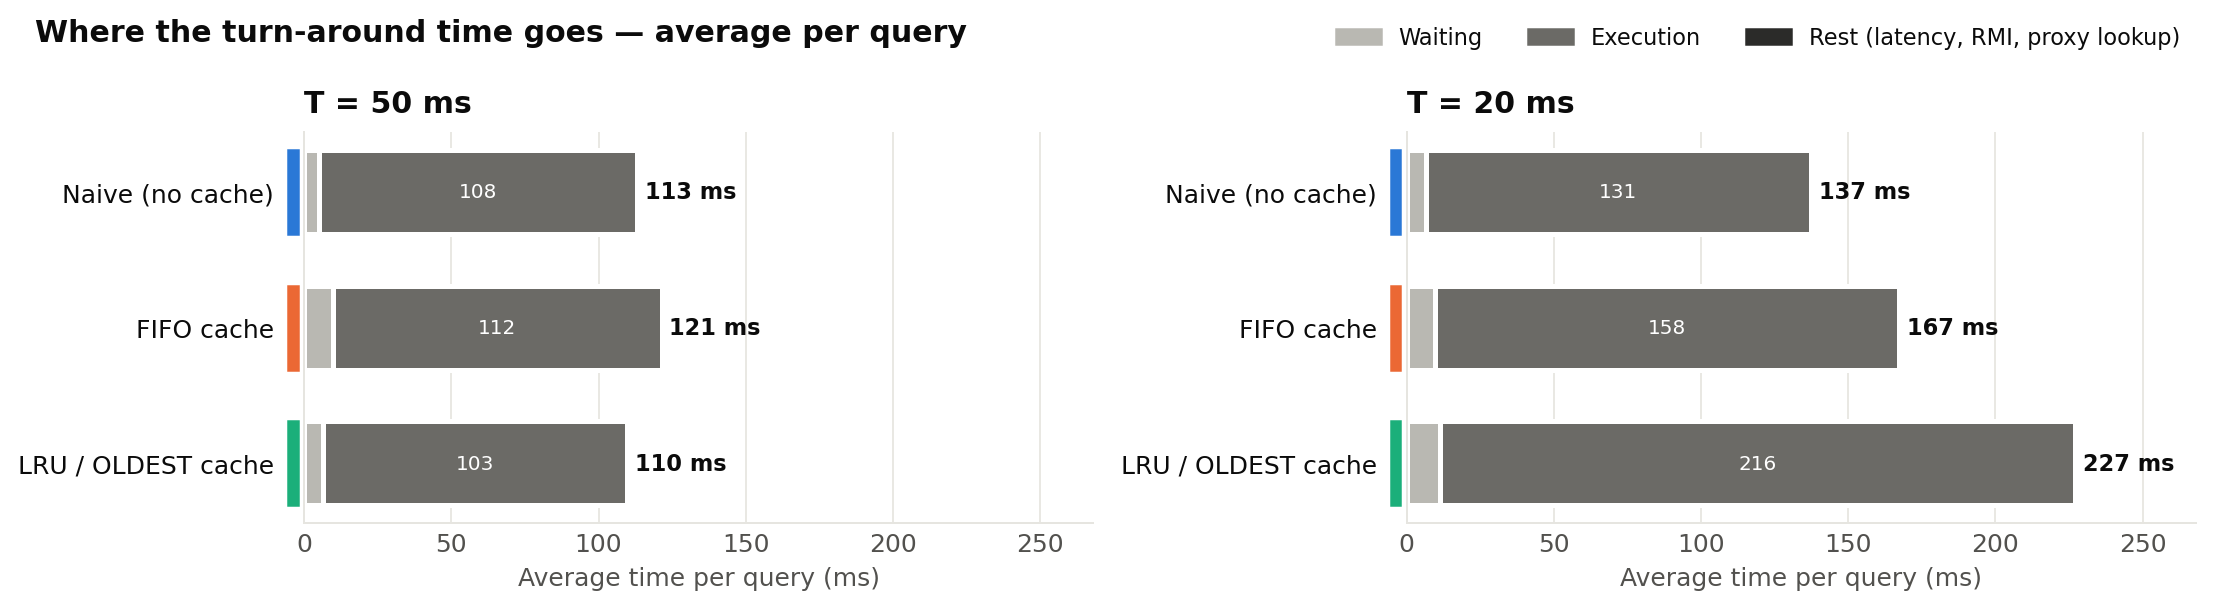
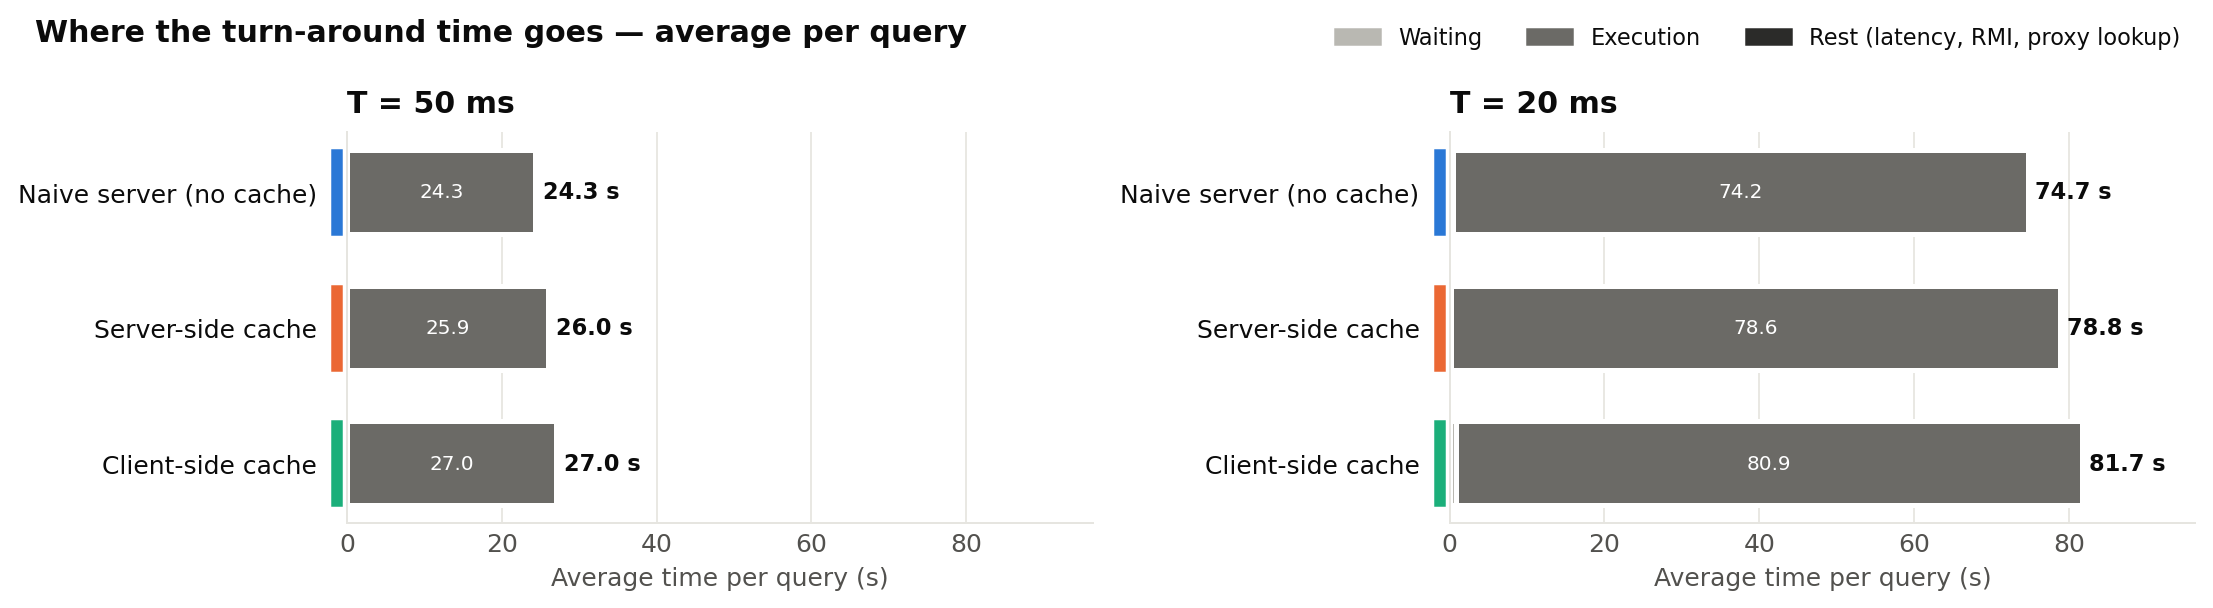
Fix: graph python script

diff --git a/scripts/plot_results.py b/scripts/plot_results.py
@@ -2,11 +2,17 @@
 Draws the graphs required by exercise_1.pdf, section "4 Result", plus a few
 comparison figures for the report.
 
-Required by the handout (one set per run, i.e. per cache mode and T):
+Input: one folder per run in output/, named <variant><T>, holding the client's
+output file <variant>.txt and the servers' queue logs server<A-E>-queue.log:
+  output/naive_server50/naive_server.txt   output/naive_server20/naive_server.txt
+  output/server_cache50/server_cache.txt   output/server_cache20/server_cache.txt
+  output/client_cache50/client_cache.txt   output/client_cache20/client_cache.txt
+
+Required by the handout (one set per run, i.e. per variant and T):
   <RUN>_turnaround   x: query number,   y: turn-around time
   <RUN>_queues       x: Unix timestamp, y: queue size, one panel per server
 
-Comparison figures across NAIVE / FIFO / LRU and T = 50 / T = 20:
+Comparison figures across naive server / server cache / client cache and T = 50 / T = 20:
   compare_turnaround     rolling mean of turn-around time per query
   compare_distribution   cumulative distribution (ECDF) of turn-around time
   compare_averages       average turn-around split into waiting / execution / rest
@@ -15,10 +21,12 @@ Comparison figures across NAIVE / FIFO / LRU and T = 50 / T = 20:
 
 It also writes summary.csv (the numbers behind the figures, for tables in the report).
 
-Usage:
-  python scripts/plot_results.py [output_dir] [--format png,pdf] [--window 50]
+Usage (from the repo folder):
+  python scripts/plot_results.py [output_dir] [--graph-dir graph] [--format png,pdf] [--window 50]
 
-Graphs are written to <output_dir>/graphs/. Only matplotlib, numpy and pandas are needed.
+Defaults: reads <repo>/output, writes to <repo>/graph (existing files with the same
+name are overwritten). Times switch from ms to seconds automatically when the
+slowest query takes longer than 10 s. Only matplotlib, numpy and pandas are needed.
 """
 import argparse
 import re
@@ -38,7 +46,7 @@ from matplotlib.ticker import FuncFormatter, MaxNLocator
 # --------------------------------------------------------------------------- #
 # Constants
 # --------------------------------------------------------------------------- #
-MODES = ["NAIVE", "FIFO", "LRU"]
+MODES = ["naive_server", "server_cache", "client_cache"]   # folder / file names
 DELAYS = [50, 20]
 SERVERS = ["A", "B", "C", "D", "E"]
 METHODS = ["getPopulationofCountry", "getNumberofCities",
@@ -53,8 +61,24 @@ LATENCY_MS = 80        # simulated same-zone latency (handout, 2.3)
 OVERLOAD_LIMIT = 18    # proxy redirects when the waiting list reaches this (handout, 1)
 
 # One fixed colour per cache mode, the same in every figure.
-MODE_COLORS = {"NAIVE": "#2a78d6", "FIFO": "#eb6834", "LRU": "#1baf7a"}
-MODE_LABELS = {"NAIVE": "Naive (no cache)", "FIFO": "FIFO cache", "LRU": "LRU / OLDEST cache"}
+MODE_COLORS = {"naive_server": "#2a78d6", "server_cache": "#eb6834", "client_cache": "#1baf7a"}
+MODE_LABELS = {"naive_server": "Naive server (no cache)", "server_cache": "Server-side cache",
+               "client_cache": "Client-side cache"}
+MODE_SHORT = {"naive_server": "Naive", "server_cache": "Server\ncache", "client_cache": "Client\ncache"}
+
+# Time unit for every figure. main() switches to seconds when the runs are slow;
+# the parsed data is divided by UNIT_DIV once, right after parsing.
+UNIT, UNIT_DIV = "ms", 1
+
+
+def fmt_t(v) -> str:
+    """A time value in the current unit, e.g. '113 ms' or '12.4 s'."""
+    return f"{v:,.0f} ms" if UNIT == "ms" else f"{v:,.1f} s"
+
+
+def num_t(v) -> str:
+    """Same as fmt_t but without the unit (for labels on bars)."""
+    return f"{v:,.0f}" if UNIT == "ms" else f"{v:,.1f}"
 
 # Text and chrome
 INK, MUTED, FAINT, GRID, SURFACE = "#0b0b0b", "#52514e", "#8a8984", "#e6e5e0", "#ffffff"
@@ -153,15 +177,21 @@ def subtitle(ax, text):
     ax.text(0, 1.02, text, transform=ax.transAxes, color=MUTED, fontsize=9, va="bottom")
 
 
-def latency_line(ax, orientation="h"):
-    """Hairline at the 80 ms simulated latency: no query can be faster than this."""
+def latency_line(ax, orientation="h", top=None):
+    """Hairline at the 80 ms simulated latency: no query can be faster than this.
+
+    Skipped on a linear axis where 80 ms would sit right on top of zero (top = axis maximum).
+    """
+    lat = LATENCY_MS / UNIT_DIV
+    if top is not None and lat < 0.03 * top:
+        return
     if orientation == "h":
-        ax.axhline(LATENCY_MS, color=FAINT, linewidth=0.9, zorder=1)
-        ax.text(1.0, LATENCY_MS, f" {LATENCY_MS} ms latency", transform=ax.get_yaxis_transform(),
+        ax.axhline(lat, color=FAINT, linewidth=0.9, zorder=1)
+        ax.text(1.0, lat, f" {LATENCY_MS} ms latency", transform=ax.get_yaxis_transform(),
                 color=MUTED, fontsize=8, va="center", ha="left")
     else:
-        ax.axvline(LATENCY_MS, color=FAINT, linewidth=0.9, zorder=1)
-        ax.text(LATENCY_MS, 1.0, f"{LATENCY_MS} ms latency ", transform=ax.get_xaxis_transform(),
+        ax.axvline(lat, color=FAINT, linewidth=0.9, zorder=1)
+        ax.text(lat, 1.0, f"{LATENCY_MS} ms latency ", transform=ax.get_xaxis_transform(),
                 color=MUTED, fontsize=8, va="top", ha="right", rotation=90)
 
 
@@ -207,16 +237,17 @@ def plot_turnaround(df: pd.DataFrame, mode: str, delay: int, window: int, out: P
 
     ax.plot(df["query"], roll.median(), color=INK, linewidth=1.6,
             label=f"Rolling median ({window} queries)", zorder=3)
-    latency_line(ax)
 
     t = df["turnaround"]
+    top = max(t.max() * 1.05, 2 * LATENCY_MS / UNIT_DIV)
+    latency_line(ax, top=top)
     ax.set_title(f"{MODE_LABELS[mode]} — turn-around time per query, T = {delay} ms")
-    subtitle(ax, f"{len(df):,} queries  ·  mean {t.mean():.0f} ms  ·  median {t.median():.0f} ms"
-                 f"  ·  95th pct {t.quantile(0.95):.0f} ms  ·  max {t.max():,} ms")
+    subtitle(ax, f"{len(df):,} queries  ·  mean {fmt_t(t.mean())}  ·  median {fmt_t(t.median())}"
+                 f"  ·  95th pct {fmt_t(t.quantile(0.95))}  ·  max {fmt_t(t.max())}")
     ax.set_xlabel("Query number (order in the input file)")
-    ax.set_ylabel("Turn-around time (ms)")
+    ax.set_ylabel(f"Turn-around time ({UNIT})")
     ax.set_xlim(0, len(df) + 1)
-    ax.set_ylim(0, max(t.max() * 1.05, LATENCY_MS * 2))
+    ax.set_ylim(0, top)
     ax.legend(loc="upper center", bbox_to_anchor=(0.5, -0.13), ncols=3)
     save(fig, out, formats)
 
@@ -247,7 +278,7 @@ def plot_queues(logs: dict, mode: str, delay: int, out: Path, formats):
             ax.axhline(OVERLOAD_LIMIT, color=FAINT, linewidth=0.9)
             ax.text(1.0, OVERLOAD_LIMIT, f" overload {OVERLOAD_LIMIT}", transform=ax.get_yaxis_transform(),
                     color=MUTED, fontsize=8, va="center", ha="left")
-        ax.set_ylim(0, (OVERLOAD_LIMIT if show_limit else ymax) + 1.5)
+        ax.set_ylim(0, max(ymax, OVERLOAD_LIMIT if show_limit else 0) * 1.12 + 1)
         ax.yaxis.set_major_locator(MaxNLocator(integer=True, nbins=3))
         ax.grid(axis="x", visible=False)
 
@@ -281,13 +312,14 @@ def plot_turnaround_comparison(clients: dict, window: int, out: Path, formats):
             df = clients[(m, d)]
             ax.plot(df["query"], df["turnaround"].rolling(window, center=True, min_periods=1).mean(),
                     color=MODE_COLORS[m], linewidth=1.6)
-        latency_line(ax)
         ax.text(0.005, 0.95, f"T = {d} ms", transform=ax.transAxes, fontweight="bold", va="top")
-        ax.set_ylabel("Turn-around (ms)")
-    top = max(line.get_ydata().max() for ax in axes for line in ax.get_lines() if len(line.get_ydata()) > 2)
-    axes[0].set_ylim(0, top * 1.05)
+        ax.set_ylabel(f"Turn-around ({UNIT})")
+    top = max(line.get_ydata().max() for ax in axes for line in ax.get_lines()) * 1.05
+    for ax in axes:
+        latency_line(ax, top=top)
+    axes[0].set_ylim(0, top)
     axes[0].set_title(f"Turn-around time over the run — rolling mean of {window} queries")
-    subtitle(axes[0], "Same input file in every run; peaks are bursts of slow queries hitting the same servers.")
+    subtitle(axes[0], "Same input file in every run, so the lines can be compared query by query.")
     mode_legend(axes[0], [m for m in MODES if any(k[0] == m for k in clients)],
                 loc="upper right", ncols=3)
     axes[-1].set_xlabel("Query number (order in the input file)")
@@ -304,7 +336,8 @@ def plot_distribution(clients: dict, out: Path, formats):
         for m in MODES:
             if (m, d) not in clients:
                 continue
-            t = np.sort(clients[(m, d)]["turnaround"].to_numpy())
+            # log axis: a 0 ms answer (client-cache hit) is drawn at 1 ms
+            t = np.sort(np.maximum(clients[(m, d)]["turnaround"].to_numpy(), 1 / UNIT_DIV))
             y = np.arange(1, len(t) + 1) / len(t)
             ax.step(t, y, where="post", color=MODE_COLORS[m], linewidth=1.8)
             med = np.median(t)
@@ -313,7 +346,7 @@ def plot_distribution(clients: dict, out: Path, formats):
         ax.axhline(0.5, color=GRID, linewidth=0.9)
         ax.set_xscale("log")
         ax.xaxis.set_major_formatter(FuncFormatter(lambda x, _: f"{x:g}"))
-        ax.set_xlabel("Turn-around time (ms, log scale)")
+        ax.set_xlabel(f"Turn-around time ({UNIT}, log scale; 0 ms drawn at 1 ms)")
         ax.set_ylim(0, 1.01)
         ax.yaxis.set_major_formatter(FuncFormatter(lambda v, _: f"{v:.0%}"))
         ax.set_title(f"T = {d} ms", pad=8)
@@ -342,11 +375,11 @@ def plot_average_breakdown(clients: dict, out: Path, formats):
                 v = df[col].mean()
                 ax.barh(y, v, left=left, height=0.62, color=PART_COLORS[part],
                         edgecolor=SURFACE, linewidth=2)
-                if v >= 12:
-                    ax.text(left + v / 2, y, f"{v:.0f}", ha="center", va="center", fontsize=8,
+                if v >= 0.07 * xmax:
+                    ax.text(left + v / 2, y, num_t(v), ha="center", va="center", fontsize=8,
                             color=SURFACE if part != "Waiting" else INK)
                 left += v
-            ax.text(df["turnaround"].mean() + xmax * 0.01, y, f"{df['turnaround'].mean():.0f} ms",
+            ax.text(df["turnaround"].mean() + xmax * 0.01, y, fmt_t(df["turnaround"].mean()),
                     va="center", fontsize=9, color=INK, fontweight="bold")
             # colour chip carries the mode identity (the bars are neutral grey)
             ax.add_patch(plt.Rectangle((-0.02, y - 0.31), 0.012, 0.62, transform=ax.get_yaxis_transform(),
@@ -355,7 +388,7 @@ def plot_average_breakdown(clients: dict, out: Path, formats):
         ax.tick_params(axis="y", pad=12, labelcolor=INK)
         ax.set_xlim(0, xmax)
         ax.grid(axis="y", visible=False)
-        ax.set_xlabel("Average time per query (ms)")
+        ax.set_xlabel(f"Average time per query ({UNIT})")
         ax.set_title(f"T = {d} ms", pad=8)
     handles = [Patch(color=PART_COLORS["Waiting"], label="Waiting"),
                Patch(color=PART_COLORS["Execution"], label="Execution"),
@@ -380,12 +413,14 @@ def plot_by_method(clients: dict, out: Path, formats):
             means = clients[(m, d)].groupby("method")["turnaround"].mean().reindex(METHODS)
             offs = (i - (len(modes) - 1) / 2) * width
             bars = ax.bar(x + offs, means, width, color=MODE_COLORS[m], edgecolor=SURFACE, linewidth=2)
-            ax.bar_label(bars, fmt="%.0f", fontsize=7.5, color=MUTED, padding=2)
-        latency_line(ax)
+            ax.bar_label(bars, labels=[num_t(v) for v in means], fontsize=7.5, color=MUTED, padding=2)
         ax.set_xticks(x, [METHOD_SHORT[mt] for mt in METHODS], fontsize=8.5)
         ax.grid(axis="x", visible=False)
         ax.set_title(f"T = {d} ms", pad=8)
-    axes[0].set_ylabel("Average turn-around time (ms)")
+    top = max(ax.get_ylim()[1] for ax in axes)
+    for ax in axes:
+        latency_line(ax, top=top)
+    axes[0].set_ylabel(f"Average turn-around time ({UNIT})")
     fig.suptitle("Average turn-around time per remote method", x=0.02, ha="left",
                  fontweight="bold", fontsize=12)
     handles = [Patch(color=MODE_COLORS[m], label=MODE_LABELS[m]) for m in MODES
@@ -415,7 +450,7 @@ def plot_queue_heatmap(queues: dict, out: Path, formats, bin_ms: int = 1000):
         ax.grid(False)
         for s in ax.spines.values():
             s.set_visible(False)
-        ax.set_ylabel(f"{m}\nT = {d}", rotation=0, ha="right", va="center", color=INK, fontsize=9, labelpad=8)
+        ax.set_ylabel(f"{MODE_SHORT[m]}\nT = {d}", rotation=0, ha="right", va="center", color=INK, fontsize=9, labelpad=8)
         ax.text(1.005, 0.5, f"max {int(np.nanmax(grid))}", transform=ax.transAxes, fontsize=8,
                 color=MUTED, va="center")
     axes[-1].set_xlim(0, longest)
@@ -437,14 +472,18 @@ def write_summary(clients: dict, queues: dict, out: Path):
     rows = []
     for (m, d), df in clients.items():
         t = df["turnaround"]
-        row = {"mode": m, "T_ms": d, "queries": len(df),
-               "turnaround_mean": round(t.mean(), 1), "turnaround_median": t.median(),
-               "turnaround_p95": t.quantile(0.95), "turnaround_max": t.max(),
-               "execution_mean": round(df["execution"].mean(), 1),
-               "waiting_mean": round(df["waiting"].mean(), 1),
-               "rest_mean": round(df["rest"].mean(), 1),
+        served_by = df["server"].str.strip()
+        known = served_by.str.isdigit()
+        row = {"variant": m, "T_ms": d, "unit": UNIT, "queries": len(df),
+               "turnaround_mean": round(t.mean(), 2), "turnaround_median": round(t.median(), 2),
+               "turnaround_p95": round(t.quantile(0.95), 2), "turnaround_max": round(t.max(), 2),
+               "execution_mean": round(df["execution"].mean(), 2),
+               "waiting_mean": round(df["waiting"].mean(), 2),
+               "rest_mean": round(df["rest"].mean(), 2),
                "client_cache_hits_marked": int(df["client_hit"].sum()),
-               "redirected_to_other_zone": int((df["zone"].astype(str) != df["server"].str.strip()).sum())}
+               # only countable when the output names the server by number ("processed by Server 3")
+               "redirected_to_other_zone": (int((df["zone"].astype(str)[known] != served_by[known]).sum())
+                                            if known.all() else "unknown")}
         for s, q in queues.get((m, d), {}).items():
             row[f"queue_peak_{s}"] = int(q["size"].max())
         rows.append(row)
@@ -454,8 +493,11 @@ def write_summary(clients: dict, queues: dict, out: Path):
 # --------------------------------------------------------------------------- #
 def main():
     ap = argparse.ArgumentParser(description=__doc__, formatter_class=argparse.RawDescriptionHelpFormatter)
-    ap.add_argument("output_dir", nargs="?",
-                    default=Path(__file__).resolve().parent.parent / "output", type=Path)
+    repo = Path(__file__).resolve().parent.parent
+    ap.add_argument("output_dir", nargs="?", default=repo / "output", type=Path,
+                    help="folder with the run folders (default: <repo>/output)")
+    ap.add_argument("--graph-dir", default=repo / "graph", type=Path,
+                    help="where the graphs go (default: <repo>/graph)")
     ap.add_argument("--format", default="png",
                     help="comma-separated, e.g. png,pdf (pdf/svg stay sharp in the report)")
     ap.add_argument("--window", type=int, default=50, help="rolling window in queries (default 50)")
@@ -463,33 +505,49 @@ def main():
     formats = [f.strip().lower() for f in args.format.split(",") if f.strip()]
 
     style()
-    graph_dir = args.output_dir / "graphs"
+    graph_dir = args.graph_dir
     graph_dir.mkdir(parents=True, exist_ok=True)
 
+    # 1. read every run that exists
     clients, queues = {}, {}
     for mode in MODES:
         for delay in DELAYS:
             run = args.output_dir / f"{mode}{delay}"
-            if not run.is_dir():
-                print(f"skip {run.name}: not found")
+            result_file = run / f"{mode}.txt"
+            if not result_file.exists():
+                print(f"skip {run.name}: {result_file.name} not found")
                 continue
-            df = parse_client_output(run / "client-output.txt")
-            clients[(mode, delay)] = df
-            plot_turnaround(df, mode, delay, args.window, graph_dir / f"{mode}{delay}_turnaround", formats)
-
+            clients[(mode, delay)] = parse_client_output(result_file)
             logs = {s: parse_queue_log(run / f"server{s}-queue.log")
                     for s in SERVERS if (run / f"server{s}-queue.log").exists()}
             if logs:
                 queues[(mode, delay)] = logs
-                plot_queues(logs, mode, delay, graph_dir / f"{mode}{delay}_queues", formats)
-            print(f"{run.name}: {len(df)} queries, {sum(map(len, logs.values()))} queue events")
+            print(f"{run.name}: {len(clients[(mode, delay)])} queries, "
+                  f"{sum(map(len, logs.values()))} queue events")
+    if not clients:
+        print(f"No runs found in {args.output_dir}")
+        return
 
-    if clients:
-        plot_turnaround_comparison(clients, args.window, graph_dir / "compare_turnaround", formats)
-        plot_distribution(clients, graph_dir / "compare_distribution", formats)
-        plot_average_breakdown(clients, graph_dir / "compare_averages", formats)
-        plot_by_method(clients, graph_dir / "compare_by_method", formats)
-        write_summary(clients, queues, graph_dir / "summary.csv")
+    # 2. one time unit for all figures: seconds if the slowest query took more than 10 s
+    global UNIT, UNIT_DIV
+    if max(df["turnaround"].max() for df in clients.values()) > 10_000:
+        UNIT, UNIT_DIV = "s", 1000
+        for df in clients.values():
+            for col in ["turnaround", "execution", "waiting", "rest"]:
+                df[col] = df[col] / UNIT_DIV
+
+    # 3. per-run figures
+    for (mode, delay), df in clients.items():
+        plot_turnaround(df, mode, delay, args.window, graph_dir / f"{mode}{delay}_turnaround", formats)
+        if (mode, delay) in queues:
+            plot_queues(queues[(mode, delay)], mode, delay, graph_dir / f"{mode}{delay}_queues", formats)
+
+    # 4. comparison figures + table
+    plot_turnaround_comparison(clients, args.window, graph_dir / "compare_turnaround", formats)
+    plot_distribution(clients, graph_dir / "compare_distribution", formats)
+    plot_average_breakdown(clients, graph_dir / "compare_averages", formats)
+    plot_by_method(clients, graph_dir / "compare_by_method", formats)
+    write_summary(clients, queues, graph_dir / "summary.csv")
     if queues:
         plot_queue_heatmap(queues, graph_dir / "compare_queues", formats)
     print(f"Graphs written to {graph_dir}")
